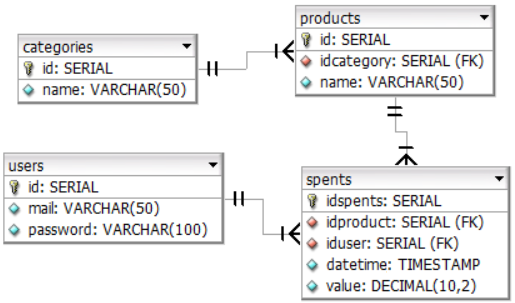
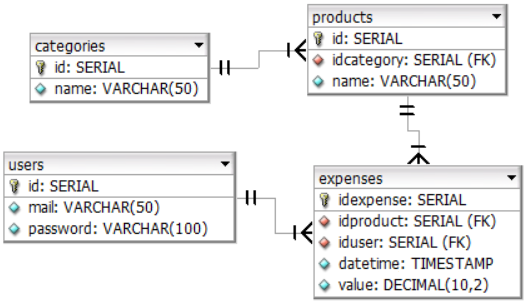
codigo

Changed region(s): [[0.0, 0.0, 1.0, 1.0]]

diff --git a/src/database/create.ts b/src/database/create.ts
@@ -11,15 +11,15 @@ async function init() {
         DROP TRIGGER IF EXISTS categories_insert_trigger ON categories;
         DROP TRIGGER IF EXISTS categories_update_trigger ON categories;
         DROP TRIGGER IF EXISTS categories_delete_trigger ON categories;
-        DROP TRIGGER IF EXISTS spents_insert_trigger ON spents;
-        DROP TRIGGER IF EXISTS spents_update_trigger ON spents;
+        DROP TRIGGER IF EXISTS expenses_insert_trigger ON expenses;
+        DROP TRIGGER IF EXISTS expenses_update_trigger ON expenses;
 
         DROP FUNCTION IF EXISTS users_insert_validade, users_update_validade, 
                                 products_insert_validate, products_update_validate,
                                 categories_insert_validate, categories_update_validate, categories_delete_validate,
-                                spents_insert_validate, spents_update_validate;
+                                expenses_insert_validate, expenses_update_validate;
         
-        DROP TABLE IF EXISTS spents, products, users, categories;
+        DROP TABLE IF EXISTS expenses, products, users, categories;
         
         DROP TYPE IF EXISTS enum_profile CASCADE;
 
@@ -54,19 +54,19 @@ async function init() {
                 on UPDATE cascade
         );
 
-        CREATE TABLE IF NOT EXISTS spents (
+        CREATE TABLE IF NOT EXISTS expenses (
             id SERIAL,
             iduser integer not null,
             idproduct integer not null,
             value decimal(10,2) NOT NULL,
             datetime TIMESTAMP WITH TIME ZONE NOT NULL DEFAULT NOW(),
-            CONSTRAINT spents_pk PRIMARY KEY (id),
-            CONSTRAINT spents_iduser_fk
+            CONSTRAINT expenses_pk PRIMARY KEY (id),
+            CONSTRAINT expenses_iduser_fk
                 FOREIGN KEY (iduser)
                 references users (id)
                 ON DELETE cascade
                 on UPDATE cascade,
-            CONSTRAINT spents_idproduct_fk
+            CONSTRAINT expenses_idproduct_fk
             FOREIGN KEY(idproduct)
                 references products (id)
                 ON DELETE restrict
@@ -244,7 +244,7 @@ async function init() {
         END;
         $$ LANGUAGE plpgsql;
 
-        CREATE FUNCTION spents_insert_validate() 
+        CREATE FUNCTION expenses_insert_validate() 
         RETURNS trigger AS $$
         BEGIN
             IF new.value is null THEN
@@ -263,7 +263,7 @@ async function init() {
         END;
         $$ LANGUAGE plpgsql;
 		
-        CREATE FUNCTION spents_update_validate() 
+        CREATE FUNCTION expenses_update_validate() 
         RETURNS trigger AS $$
         BEGIN
             IF new.value is null THEN
@@ -317,13 +317,13 @@ async function init() {
         BEFORE DELETE ON categories
         FOR EACH ROW EXECUTE PROCEDURE categories_delete_validate();
 
-        CREATE TRIGGER spents_insert_trigger
-        BEFORE INSERT ON spents
-        FOR EACH ROW EXECUTE PROCEDURE spents_insert_validate();
+        CREATE TRIGGER expenses_insert_trigger
+        BEFORE INSERT ON expenses
+        FOR EACH ROW EXECUTE PROCEDURE expenses_insert_validate();
 
-        CREATE TRIGGER spents_update_trigger
-        BEFORE UPDATE ON spents
-        FOR EACH ROW EXECUTE PROCEDURE spents_update_validate();
+        CREATE TRIGGER expenses_update_trigger
+        BEFORE UPDATE ON expenses
+        FOR EACH ROW EXECUTE PROCEDURE expenses_update_validate();
 
         COMMIT;
     `);

diff --git a/src/database/load.ts b/src/database/load.ts
@@ -4,7 +4,7 @@ async function load() {
   return query(`
         BEGIN;
 
-        TRUNCATE spents CASCADE;
+        TRUNCATE expenses CASCADE;
         TRUNCATE products CASCADE;
         TRUNCATE categories CASCADE;
         TRUNCATE users CASCADE;
@@ -143,7 +143,7 @@ async function load() {
         (114,'Tesoura de poda',5),
         (115,'Pá',5);
 
-        INSERT INTO spents (iduser,idproduct,datetime,value)
+        INSERT INTO expenses (iduser,idproduct,datetime,value)
         VALUES
         (2,15,'2024-03-22 11:34:11',18.4),
         (2,15,'2024-04-05 18:04:19',17.9),
@@ -298,7 +298,7 @@ async function load() {
         SELECT setval('categories_id_seq', (SELECT MAX(id) FROM categories) + 1);
         SELECT setval('products_id_seq', (SELECT MAX(id) FROM products) + 1);
         SELECT setval('users_id_seq', (SELECT MAX(id) FROM users) + 1);
-        SELECT setval('spents_id_seq', (SELECT MAX(id) FROM spents) + 1);
+        SELECT setval('expenses_id_seq', (SELECT MAX(id) FROM expenses) + 1);
 
         COMMIT;
     `);

diff --git a/src/controllers/ExpenseController.ts b/src/controllers/ExpenseController.ts
@@ -1,7 +1,7 @@
 import { Request, Response } from "express";
 import query from "../database/connection";
 
-class SpentController {
+class ExpenseController {
   public async create(req: Request, res: Response): Promise<void> {
     const { idproduct, value } = req.body;
     const { id:iduser } = res.locals;
@@ -61,4 +61,4 @@ class SpentController {
   }
 }
 
-export default new SpentController();
+export default new ExpenseController();

diff --git a/src/routes/index.ts b/src/routes/index.ts
@@ -2,7 +2,7 @@ import { Router, Request, Response } from "express";
 import user from "./user";
 import product from "./product";
 import userController from "../controllers/UserController";
-import spent from "./spent";
+import spent from "./expense";
 import category from "./category";
 import { validadeAcess } from "../middlewares";
 

diff --git a/src/routes/expense.ts b/src/routes/expense.ts
@@ -1,5 +1,5 @@
 import { Router, Request, Response } from "express";
-import controller from "../controllers/SpentController";
+import controller from "../controllers/ExpenseController";
 
 const routes = Router();
 
